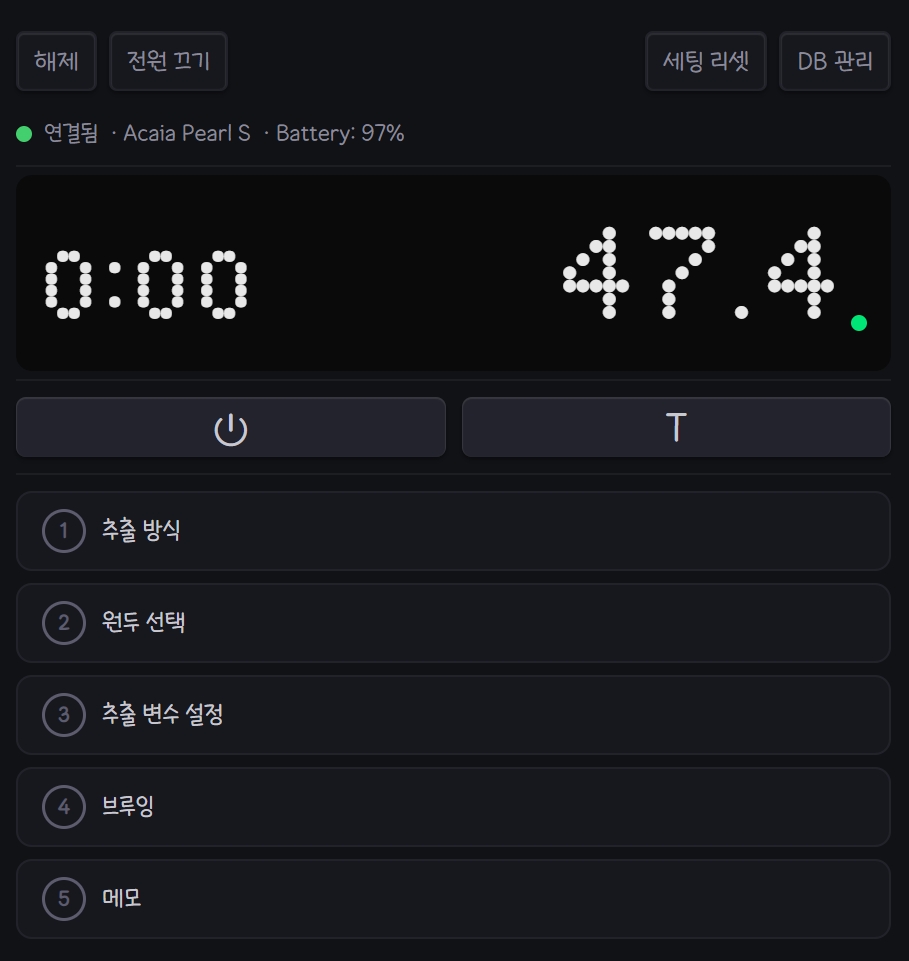
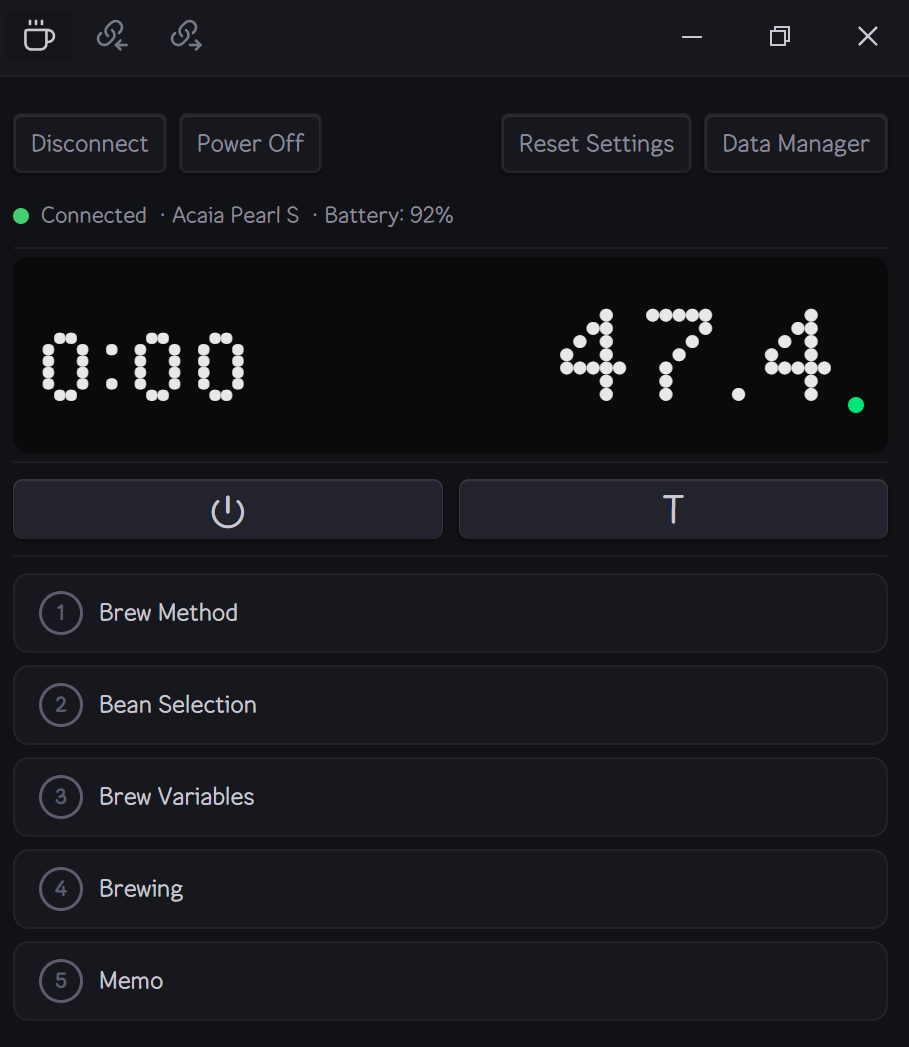
docs: English UI screenshots, update README for i18n
- Replace Korean screenshots with English UI (4 images)
- Split brew screenshot into table + detail with profile chart
- Update frontmatter example to English keys
- Add multi-language to feature list
- Update test/line counts

diff --git a/README.md b/README.md
@@ -24,6 +24,7 @@ An [Obsidian](https://obsidian.md) plugin for coffee brewing — real-time BLE s
 - **Brew history** — per-bean records with profile charts and equipment used
 - **Equipment registry** — grinders, drippers, filters, baskets, accessories
 - **Vault-native storage** — all data as plain files, Obsidian Sync compatible
+- **Multi-language** — English and Korean, community-extensible
 - **Global hotkeys** — hands-free connect, tare, start/stop brew
 
 ## Requirements
@@ -55,7 +56,7 @@ Place a `beans` code block in any note to create a bean inventory hub:
 ````
 
 <p>
-  <img src="assets/beans-data.png" alt="Bean inventory with roast days and remaining weight" width="720">
+  <img src="assets/beans-table.png" alt="Bean inventory with roast days and remaining weight" width="720">
   <br>
   <em>Bean inventory — roast days, remaining weight, and status tracking per bean</em>
 </p>
@@ -75,10 +76,10 @@ Each bean is a regular note with `type: bean` frontmatter:
 ```yaml
 ---
 type: bean
-로스터: My Roaster
-상태: active
-로스팅 날짜: 2026-03-01
-무게: 200
+roaster: My Roaster
+status: active
+roast_date: 2026-03-01
+weight: 200
 ---
 ```
 
@@ -94,9 +95,15 @@ Each bean note includes a `brews` code block (auto-inserted on creation) that sh
 ````
 
 <p>
-  <img src="assets/brews-data.png" alt="Brew record detail with profile chart" width="720">
+  <img src="assets/brews-table.png" alt="Brew records table with date, method, and memo" width="720">
   <br>
-  <em>Brew record with weight-over-time profile chart and extraction parameters</em>
+  <em>Per-bean brew history table</em>
+</p>
+
+<p>
+  <img src="assets/brews-detail.png" alt="Brew detail modal with profile chart" width="720">
+  <br>
+  <em>Brew detail — extraction parameters and weight-over-time profile chart</em>
 </p>
 
 ---
@@ -104,7 +111,7 @@ Each bean note includes a `brews` code block (auto-inserted on creation) that sh
 ## Architecture
 
 ```
-8,200+ lines TypeScript · 119 tests (vitest) · esbuild CommonJS bundle
+8,800+ lines TypeScript · 130 tests (vitest) · esbuild CommonJS bundle
 ```
 
 | Layer | Key Components |
